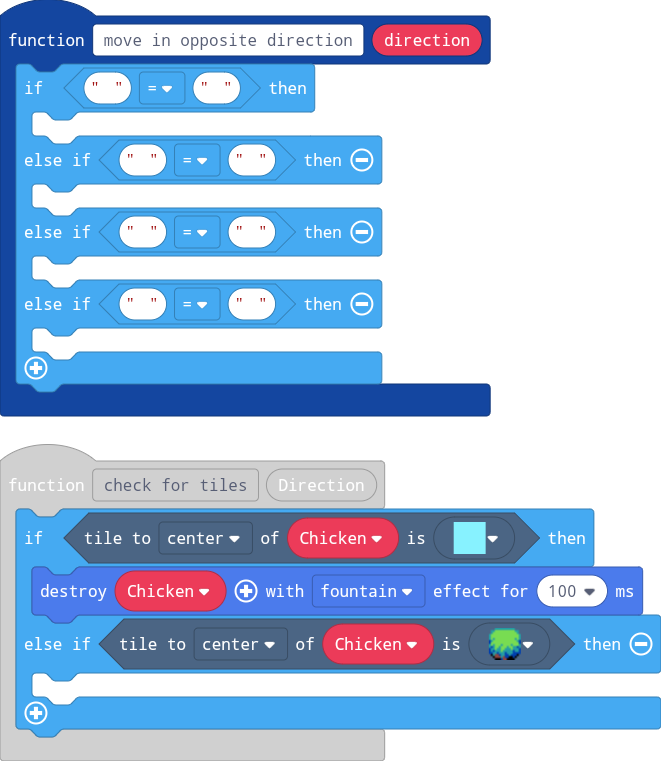
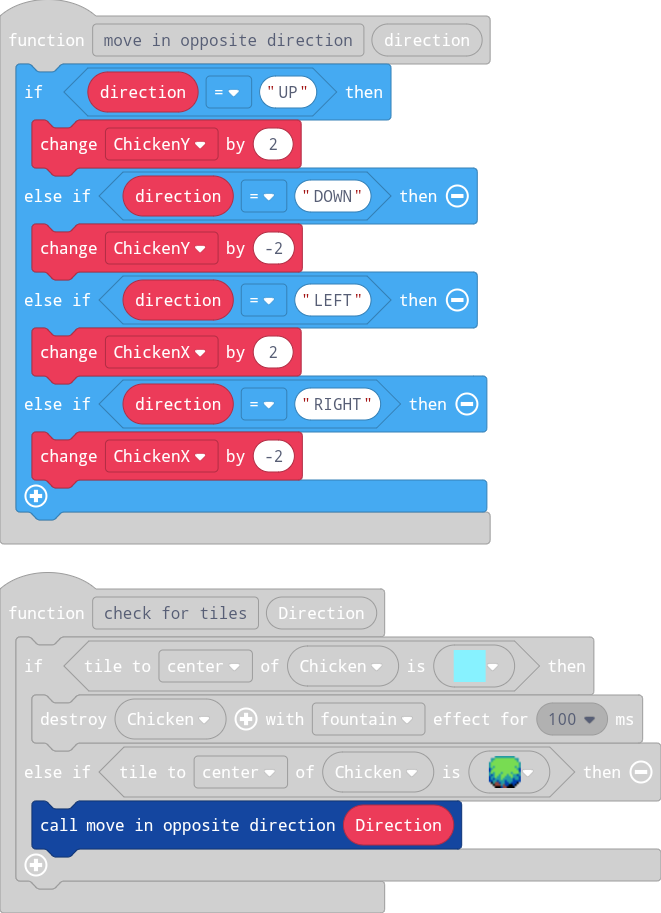
Update main.blocks, main.ts

diff --git a/main.ts b/main.ts
@@ -82,17 +82,6 @@ namespace myTiles {
 9 9 9 9 9 9 9 9 9 9 9 9 9 9 9 9 
 `
 }
-function move_in_opposite_direction (direction: string) {
-    if ("" == "") {
-    	
-    } else if ("" == "") {
-    	
-    } else if ("" == "") {
-    	
-    } else if ("" == "") {
-    	
-    }
-}
 controller.left.onEvent(ControllerButtonEvent.Pressed, function () {
     ChickenX += -1
     check_for_tiles("LEFT")
@@ -117,13 +106,24 @@ function check_for_tiles (Direction: string) {
     if (Chicken.tileKindAt(TileDirection.Center, myTiles.tile2)) {
         Chicken.destroy(effects.fountain, 100)
     } else if (Chicken.tileKindAt(TileDirection.Center, sprites.builtin.forestTiles0)) {
-    	
+        move_in_opposite_direction(Direction)
     }
 }
 controller.right.onEvent(ControllerButtonEvent.Pressed, function () {
     ChickenX += 1
     check_for_tiles("RIGHT")
 })
+function move_in_opposite_direction (direction: string) {
+    if (direction == "UP") {
+        ChickenY += 2
+    } else if (direction == "DOWN") {
+        ChickenY += -2
+    } else if (direction == "LEFT") {
+        ChickenX += 2
+    } else if (direction == "RIGHT") {
+        ChickenX += -2
+    }
+}
 scene.onOverlapTile(SpriteKind.Projectile, sprites.builtin.forestTiles0, function (sprite, location) {
     sprite.destroy()
 })
